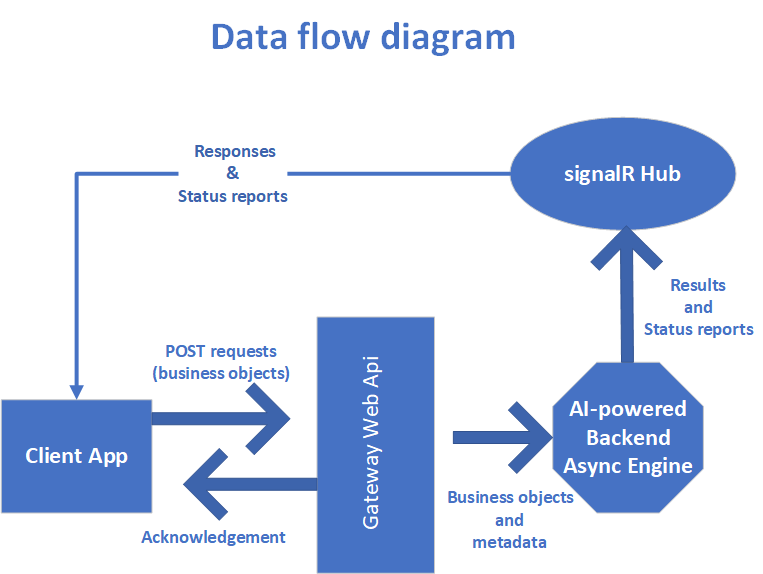
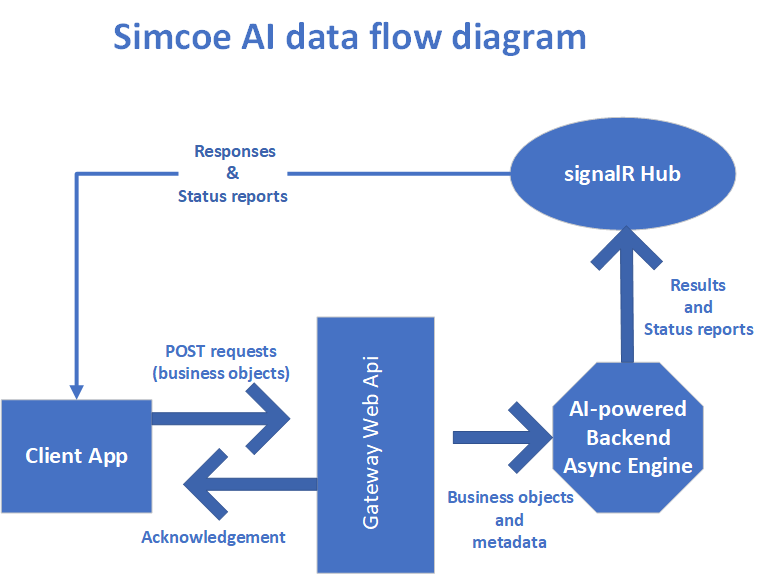
Included the sequence diagram #2 #6
This comitment also depictes autentication process

Changed region(s): [[0.1507, 0.0296, 0.7837, 0.1185]]

diff --git a/app-workflow-overview.md b/app-workflow-overview.md
@@ -30,7 +30,7 @@ The architecture of the application allows the integrated client applications su
 
 The following diagram depicts this mechanism:
 
-![hla1](assets/hla1.png)
+![simcoe ai data flow diagram](assets/hla1.png)
 
 ### Major components of the system
 TThe system compromises the following major components:
@@ -43,7 +43,7 @@ TThe system compromises the following major components:
 * Formula system
 * Ranking engine to sort the results based on the overal combined score that short-listed candidates obtained
 
-![hla2](assets/hla2.png)
+![simcoe ai major components](assets/hla2.png)
 
 ### Examples on populating lake of resumes
 Gateway Web Api is a scalable entity that can handle an enormous number of requests in parallel. Therefore, it can import resumes very efficiently in mass and store them in their designated lake of resumes. The following examples illustrate some integration forms with Simcoe AI's web api:

diff --git a/simcoe-ai-sequence-diagram.md b/simcoe-ai-sequence-diagram.md
@@ -1,0 +1,9 @@
+# Simcoe AI sequence diagram
+
+The following diagram depicts the sequence of application starting from the client app e.g. UI client app, ATS, etc. to the last tier. The Gateway Web Api, as it appears, facilitates collecting requests and passes them to the backend's AI engine. 
+
+## Gatewat's security feature
+
+One of the key elements of Gateway Api is that it provides Azure AD B2C a couple of claims for further security enhancements.
+
+![simcoe ai sequence diagram](assets/sequence.png)
